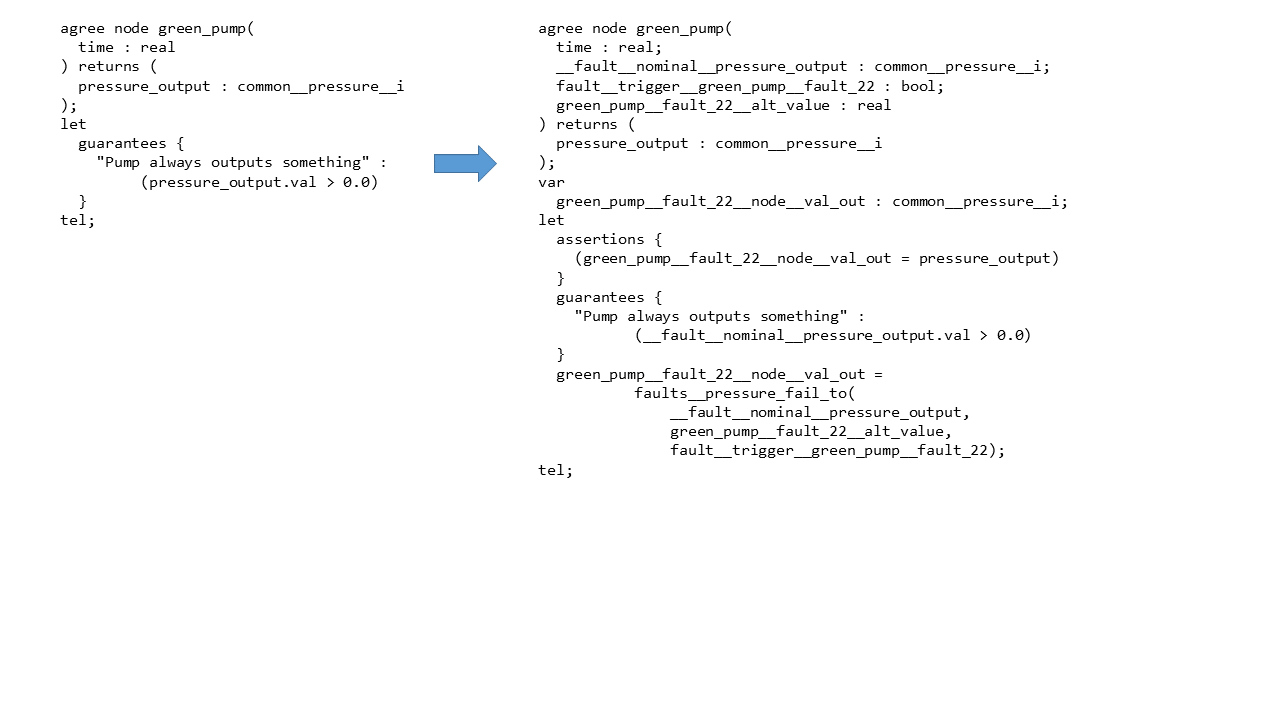
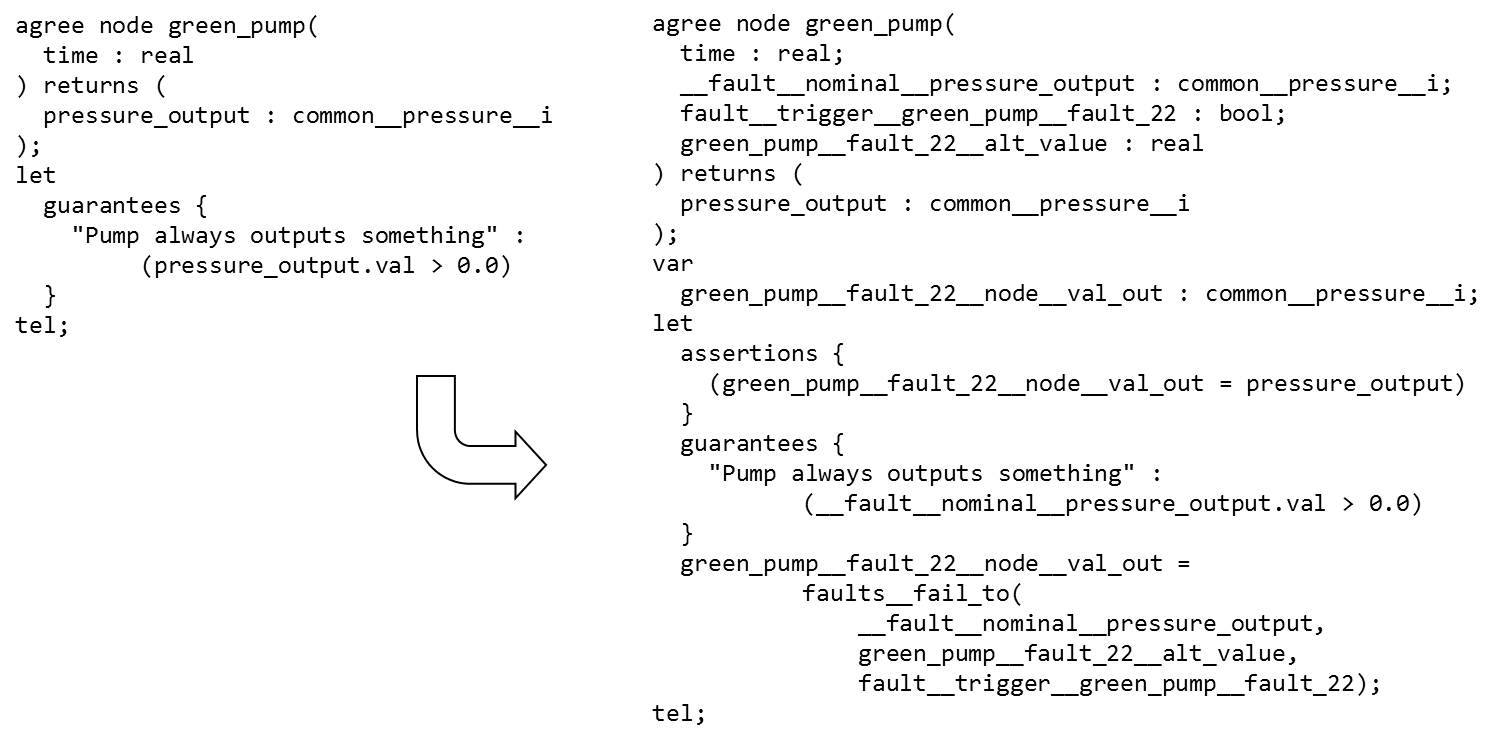
Edits to figs 1 and 2

diff --git a/doc/NFM_2018/architectureimplementation.tex b/doc/NFM_2018/architectureimplementation.tex
@@ -5,7 +5,8 @@ The architecture of the Safety Annex is shown in Figure~\ref{fig:plugin-arch}.  
 
 \begin{figure}
 \begin{center}
-\includegraphics[trim=0 400 430 0,clip,width=0.85\textwidth]{images/arch.png}
+%\includegraphics[trim=0 400 430 0,clip,width=0.85\textwidth]{images/arch.png}
+\includegraphics[width=.9\textwidth]{images/arch.png}
 \end{center}
 \vspace{-0.2in}
 \caption{Safety Annex Plug-in Architecture}
@@ -16,7 +17,8 @@ AGREE contracts are used to define the nominal behaviors of system components as
 
 \begin{figure}
 \vspace{-0.1in}
-\includegraphics[trim=30 150 120 10,clip,width=\textwidth]{images/sample_code.png}
+%\includegraphics[trim=30 150 120 10,clip,width=\textwidth]{images/sample_code.png}
+\includegraphics[width=\textwidth]{images/sample_code.png}
 \vspace{-0.3in}
 \caption{Nominal AGREE node and its extension with faults}
 \label{fig:comp}
